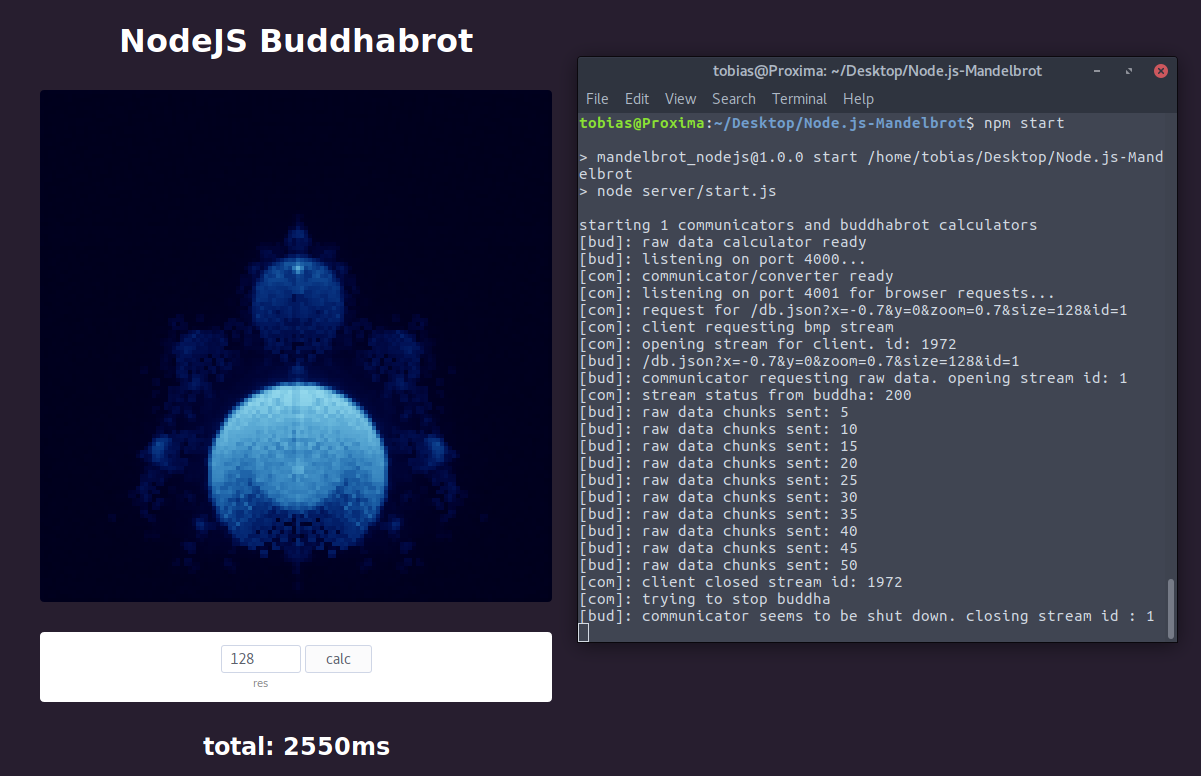
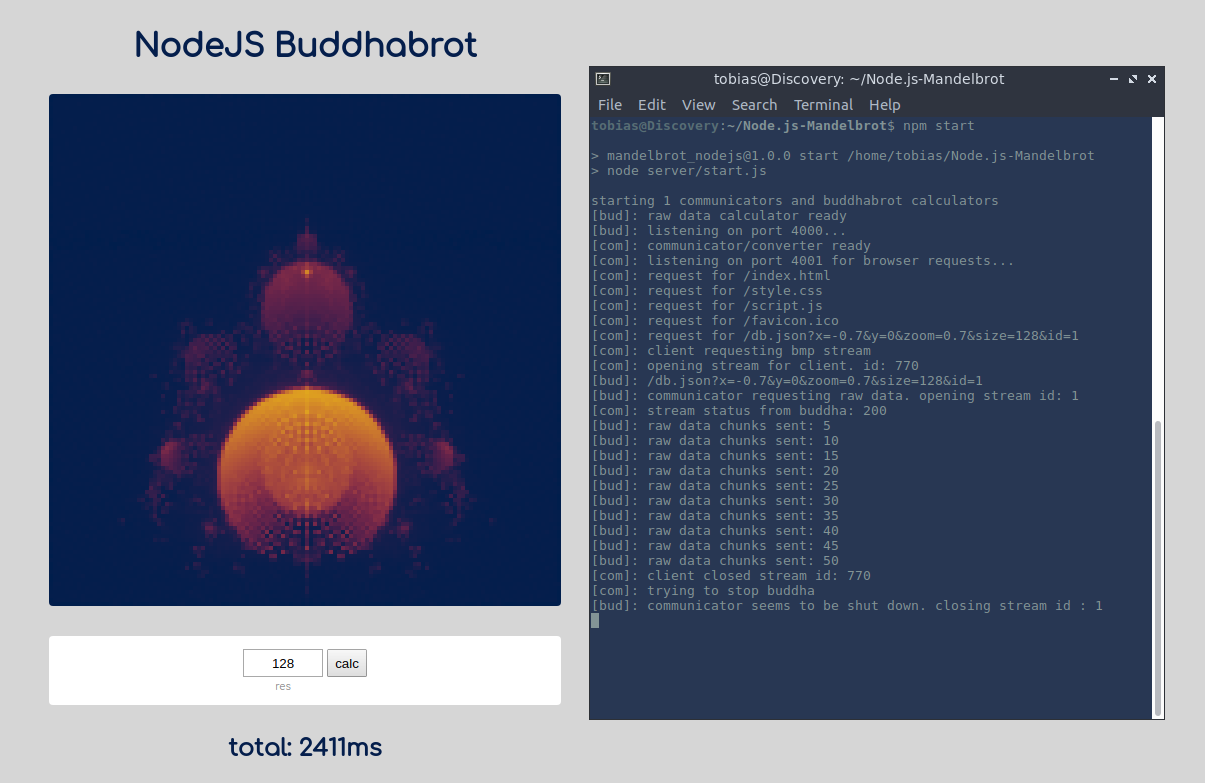
nicer colors

diff --git a/server/communicator.js b/server/communicator.js
@@ -166,7 +166,7 @@ function storeasimage(mb_answer)
     //stretch means stretch on the v-axis (value of the BuddhabrotCounter).
     //Higher stretch means darker image for low counter values but will also prevent clipping
     //(clipping is already kinda countered by using the tanh curve which converges to 1 but never really touches it)
-    let stretch = 10000;
+    let stretch = 4000;
 
     //create new img
     for(let x = 0;x < width;x++)
@@ -177,9 +177,9 @@ function storeasimage(mb_answer)
             v = mb_answer.allPointsB[x][y]
 
             //step one: calculate r g b colors from v
-            r = Math.pow(Math.tanh(v/stretch),2)*255*0.8
-            g = Math.pow(Math.tanh(v/stretch),1)*255
-            b = Math.pow(Math.tanh(v/stretch),0.5)*255*0.9+25
+            b = (255-Math.pow(Math.tanh(v/stretch),2)*255)*0.3
+            g = Math.pow(Math.tanh(v/stretch),2)*225+30
+            r = Math.pow(Math.tanh(v/stretch),0.5)*255
 
             //step two: convert it to hexadecimal
             r = parseInt(r).toString(16).toUpperCase()

diff --git a/public/style.css b/public/style.css
@@ -1,8 +1,11 @@
+@import url('https://fonts.googleapis.com/css?family=Comfortaa');
+
 body
 {
-    font-family: open-sans,sans-serif,arial;
+    font-family: "Comfortaa",open-sans,sans-serif,arial;
     padding: 70px 20px;
-    background: #271e2f;
+    background: #d6d6d6;
+    color: #041e4c;
 }
 
 .hidden
@@ -21,7 +24,6 @@ body
 h1, h2
 {
     text-align:center;
-    color: white;
 }
 
 form {
@@ -111,6 +113,7 @@ input {
 
 input, button {
     height: 28px;
+    text-align:center;
 }
 
 #plot li
